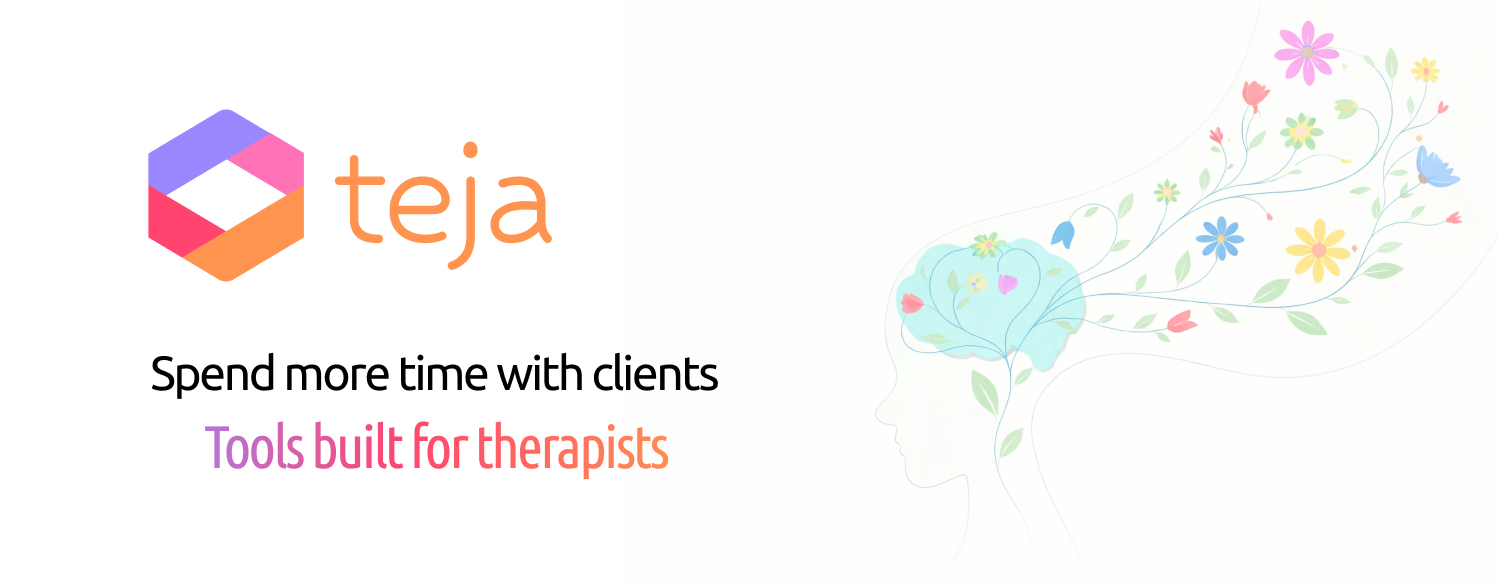
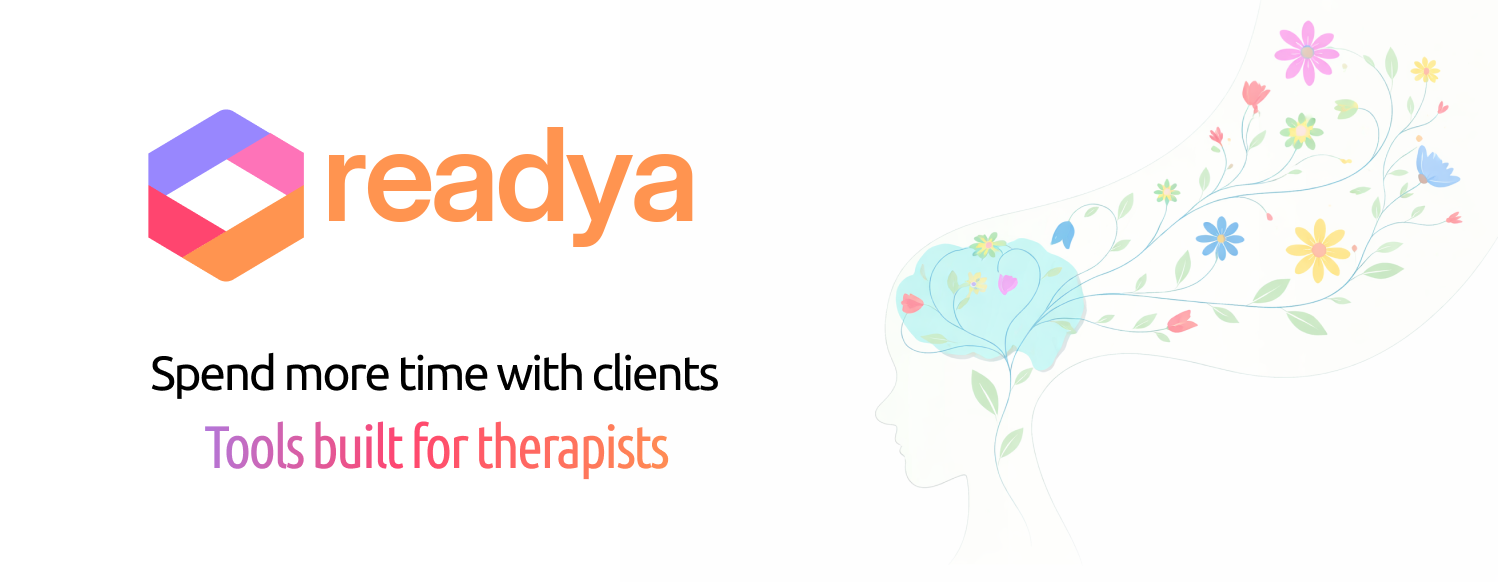
fix(brand): rebrand github org profile to readya

Changed region(s): [[0.215, 0.2165, 0.4606, 0.4639]]

diff --git a/profile/README.md b/profile/README.md
@@ -1,4 +1,4 @@
-![Teja](https://raw.githubusercontent.com/teja-app/.github/main/profile/banner.png)
+![Readya](https://raw.githubusercontent.com/teja-app/.github/main/profile/banner.png)
 
 **AI-native practice management for mental health professionals.**
 
@@ -6,7 +6,7 @@
 
 We believe therapists should spend their time on what matters most: their clients. Not paperwork.
 
-Teja eliminates the administrative burden that steals hours from mental health professionals every week—so they can focus on delivering life-changing care.
+Readya eliminates the administrative burden that steals hours from mental health professionals every week—so they can focus on delivering life-changing care.
 
 ### What We Build
 
@@ -22,4 +22,4 @@ Teja eliminates the administrative burden that steals hours from mental health p
 
 ---
 
-<sub>San Francisco, CA</sub>
+<sub>[readya.io](https://readya.io) · San Francisco, CA</sub>
